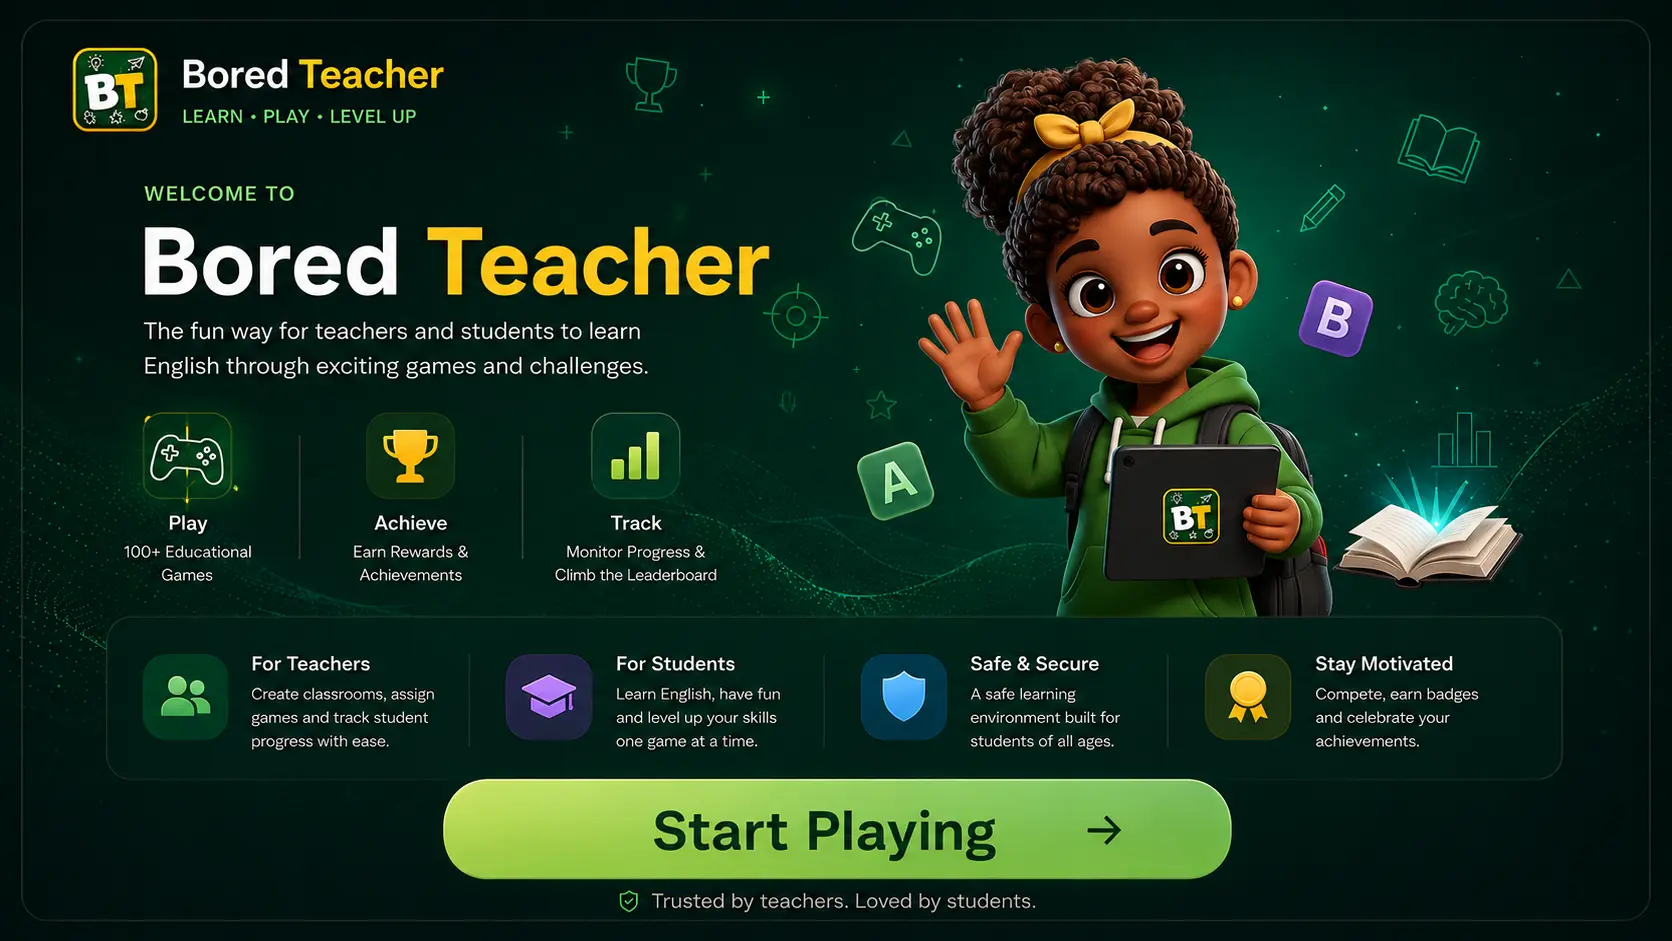
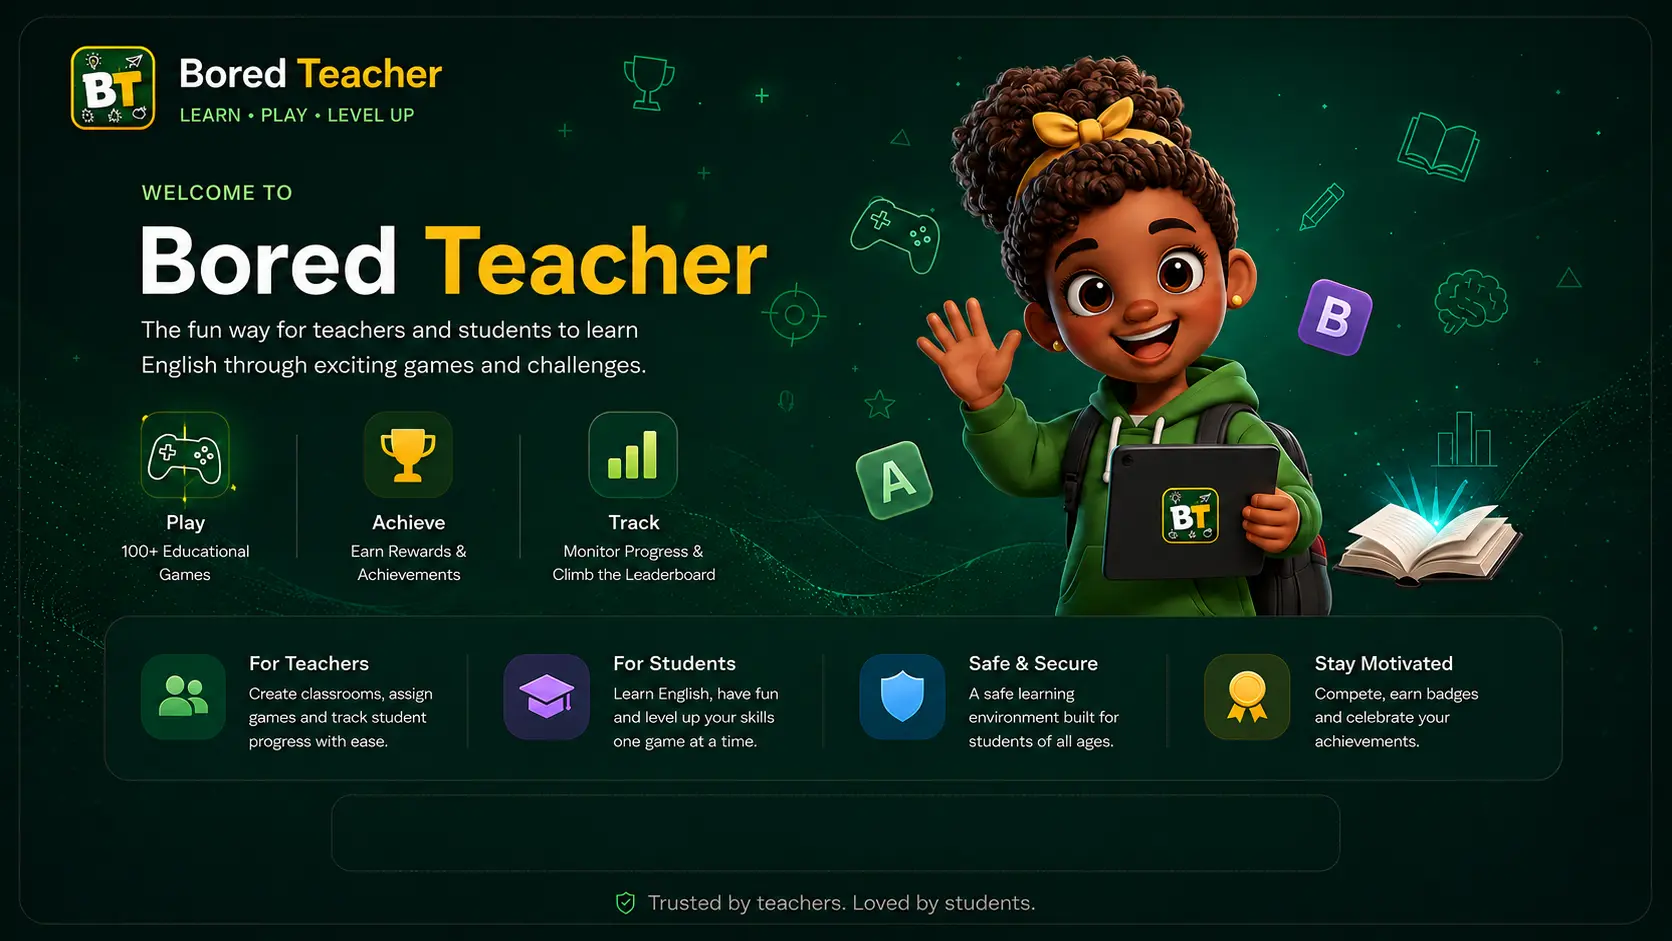
p

diff --git a/components/AppBackground.tsx b/components/AppBackground.tsx
@@ -1,23 +1,72 @@
 'use client';
 
+import { useEffect, useState } from 'react';
 import { usePathname } from 'next/navigation';
 
 export default function AppBackground() {
   const pathname = usePathname();
+  const [splashStage, setSplashStage] = useState<'welcome' | 'start-playing'>('welcome');
+
+  useEffect(() => {
+    function handleStageChange(event: Event) {
+      const detail = (event as CustomEvent<{ stage: string }>).detail;
+      if (detail?.stage === 'start-playing') {
+        setSplashStage('start-playing');
+      }
+    }
+
+    window.addEventListener('splashBackgroundChange', handleStageChange as EventListener);
+    return () => window.removeEventListener('splashBackgroundChange', handleStageChange as EventListener);
+  }, []);
+
+  useEffect(() => {
+    if (pathname !== '/') {
+      setSplashStage('welcome');
+    }
+  }, [pathname]);
+
+  useEffect(() => {
+    [
+      '/assets/images/welcome-page.webp',
+      '/assets/images/start-playing-page.webp',
+      '/assets/images/hub-bg-desktop.webp',
+      '/assets/images/games-bg-desktop.webp',
+      '/assets/images/leaderboard-bg-desktop.webp',
+      '/assets/images/trophy-room-bg-desktop.webp',
+      '/assets/images/shop-bg-desktop.webp',
+      '/assets/images/resources-bg-desktop.webp',
+      '/assets/images/logo.png',
+    ].forEach((src) => {
+      const img = new Image();
+      img.src = src;
+    });
+  }, []);
+
   let bg = '/assets/images/start-playing-page.webp';
 
   if (pathname === '/') {
-    bg = '/assets/images/welcome-page.webp';
+    bg = splashStage === 'start-playing'
+      ? '/assets/images/start-playing-page.webp'
+      : '/assets/images/welcome-page.webp';
   } else if (pathname === '/auth') {
-    bg = '/assets/images/auth-screen.png';
+    bg = '/assets/images/welcome-page.webp';
+  } else if (pathname.startsWith('/hub')) {
+    bg = '/assets/images/hub-bg-desktop.webp';
+  } else if (pathname === '/games' || pathname.startsWith('/games/')) {
+    bg = '/assets/images/games-bg-desktop.webp';
+  } else if (pathname.startsWith('/leaderboard')) {
+    bg = '/assets/images/leaderboard-bg-desktop.webp';
+  } else if (pathname.startsWith('/trophy')) {
+    bg = '/assets/images/trophy-room-bg-desktop.webp';
+  } else if (pathname.startsWith('/payment')) {
+    bg = '/assets/images/shop-bg-desktop.webp';
+  } else if (pathname.startsWith('/resources')) {
+    bg = '/assets/images/resources-bg-desktop.webp';
   }
 
   return (
     <>
-      <div
-        className="app-background"
-        style={{ backgroundImage: `url(${bg})` }}
-      />
+      <div className="app-background" style={{ backgroundImage: `url(${bg})` }} />
       <div className="app-background-overlay" />
     </>
   );

diff --git a/app/page.tsx b/app/page.tsx
@@ -1,7 +1,7 @@
 'use client';
 // app/page.tsx — Splash screen + auth redirect (replaces index.html)
 
-import { useEffect, useState } from 'react';
+import { useEffect, useState, useRef } from 'react';
 import { useRouter } from 'next/navigation';
 import { onAuthStateChanged } from '@/lib/firebase';
 
@@ -23,10 +23,13 @@ export default function SplashPage() {
   const [displayedProgress, setDisplayedProgress] = useState(0);
   const [status, setStatus] = useState(STATUS_MESSAGES[0]);
   const [exiting, setExiting] = useState(false);
+  const [clickable, setClickable] = useState(false);
+  const destinationRef = useRef('/auth');
+  const finishRef = useRef<ReturnType<typeof setTimeout> | null>(null);
+  const redirectRef = useRef<ReturnType<typeof setTimeout> | null>(null);
 
   useEffect(() => {
     let resolved = false;
-    let destination = '/auth';
     const timers: ReturnType<typeof setTimeout>[] = [];
 
     function queue(ms: number, nextProgress: number, nextStatus: string) {
@@ -45,27 +48,30 @@ export default function SplashPage() {
     queue(4200, 94, STATUS_MESSAGES[6]);
     queue(4700, 98, STATUS_MESSAGES[7]);
 
-    const finish = setTimeout(() => {
+    finishRef.current = setTimeout(() => {
       setProgress(100);
+      setClickable(true);
+      window.dispatchEvent(new CustomEvent('splashBackgroundChange', { detail: { stage: 'start-playing' } }));
       setExiting(true);
-      setTimeout(() => router.replace(destination), 450);
+      redirectRef.current = setTimeout(() => router.replace(destinationRef.current), 450);
     }, SPLASH_DURATION_MS);
 
     const isGuest = localStorage.getItem('guestUser') === 'true';
     if (isGuest) {
       resolved = true;
-      destination = '/hub';
+      destinationRef.current = '/hub';
     }
 
     const unsub = onAuthStateChanged((user) => {
       if (resolved) return;
       resolved = true;
-      destination = user ? '/hub' : '/auth';
+      destinationRef.current = user ? '/hub' : '/auth';
     });
 
     return () => {
       unsub();
-      clearTimeout(finish);
+      if (finishRef.current) clearTimeout(finishRef.current);
+      if (redirectRef.current) clearTimeout(redirectRef.current);
       timers.forEach(clearTimeout);
     };
   }, [router]);
@@ -74,6 +80,13 @@ export default function SplashPage() {
     router.prefetch('/auth');
     router.prefetch('/hub');
   }, [router]);
+
+  useEffect(() => {
+    if (progress >= 100) {
+      setClickable(true);
+      window.dispatchEvent(new CustomEvent('splashBackgroundChange', { detail: { stage: 'start-playing' } }));
+    }
+  }, [progress]);
 
   // Smoothly tween the numeric progress so the percentage counts up
   useEffect(() => {
@@ -100,8 +113,25 @@ export default function SplashPage() {
     return () => cancelAnimationFrame(raf);
   }, [progress]);
 
+  function handleContinue() {
+    if (exiting) return;
+    setExiting(true);
+    setClickable(false);
+    if (finishRef.current) clearTimeout(finishRef.current);
+    if (redirectRef.current) clearTimeout(redirectRef.current);
+    router.replace(destinationRef.current);
+  }
+
   return (
     <div className={`splash-wrapper${exiting ? ' exiting' : ''}`}>
+      {clickable && (
+        <button
+          type="button"
+          className="splash-click-target"
+          onClick={handleContinue}
+          aria-label="Continue to start playing"
+        />
+      )}
       <style suppressHydrationWarning>{`
         .splash-wrapper {
           position: fixed; inset: 0;
@@ -158,6 +188,14 @@ export default function SplashPage() {
           font-size: 0.8rem;
           font-weight: 700;
           text-shadow: 0 1px 6px rgba(0,0,0,0.6);
+        }
+        .splash-click-target {
+          position: absolute;
+          inset: 0;
+          border: none;
+          background: transparent;
+          cursor: pointer;
+          z-index: 1;
         }
         @keyframes fadeUp {
           from { opacity: 0; transform: translateY(16px); }

diff --git a/app/head.tsx b/app/head.tsx
@@ -1,0 +1,12 @@
+export default function Head() {
+  return (
+    <>
+      <link rel="preconnect" href="https://fonts.googleapis.com" />
+      <link rel="preconnect" href="https://fonts.gstatic.com" crossOrigin="anonymous" />
+      <link rel="preload" href="/assets/images/welcome-page.webp" as="image" />
+      <link rel="preload" href="/assets/images/start-playing-page.webp" as="image" />
+      <link rel="preload" href="/assets/images/auth-screen.png" as="image" />
+      <link rel="preload" href="/assets/images/logo.png" as="image" />
+    </>
+  );
+}

diff --git a/components/AppShell.tsx b/components/AppShell.tsx
@@ -8,11 +8,12 @@ import Toast from './ui/Toast';
 import AchievementToast from '@/features/achievements/components/AchievementToast';
 import { useGame } from '@/lib/gameState';
 
-const NO_SHELL = ['/auth', '/games/'];
+const NO_SHELL_PATHS = ['/', '/auth'];
 
 export default function AppShell({ children }: { children: ReactNode }) {
   const pathname   = usePathname() ?? '';
-  const showShell  = !NO_SHELL.some(p => pathname.startsWith(p));
+  const isGameRoute = pathname.startsWith('/games');
+  const showShell  = !NO_SHELL_PATHS.includes(pathname) && !isGameRoute;
   const { pendingAchievement, clearPendingAchievement } = useGame();
 
   return (
@@ -21,7 +22,7 @@ export default function AppShell({ children }: { children: ReactNode }) {
         Skip to content
       </a>
 
-      <Navbar />
+      {showShell && <Navbar />}
       <Toast />
 
       <main id="main-content">